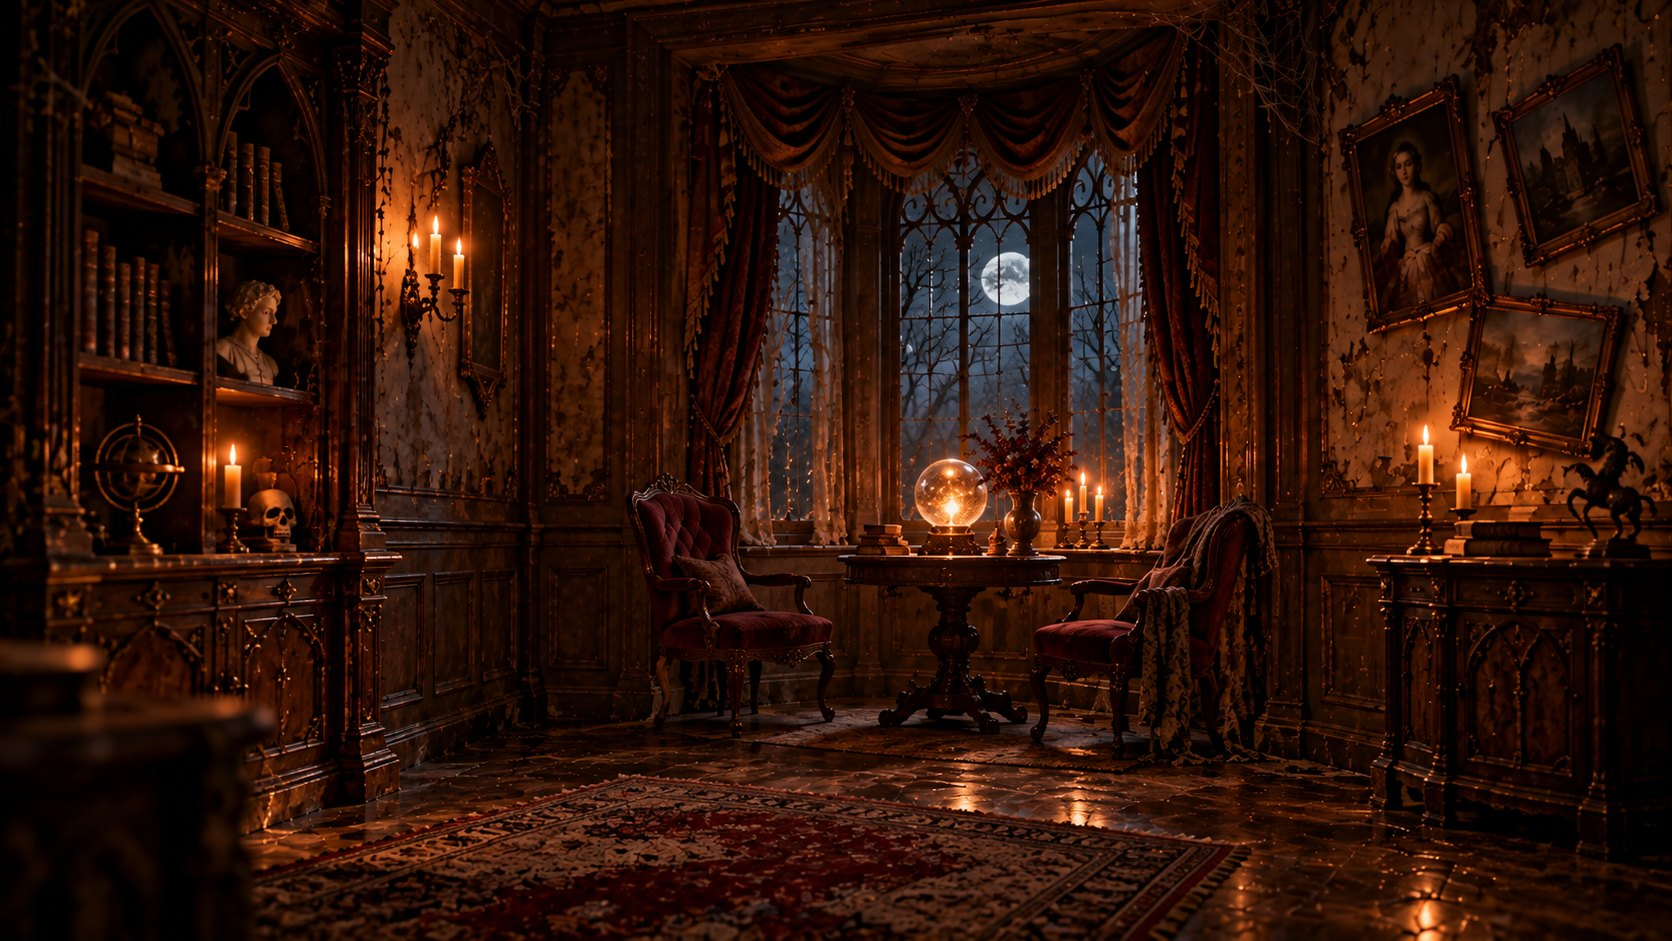
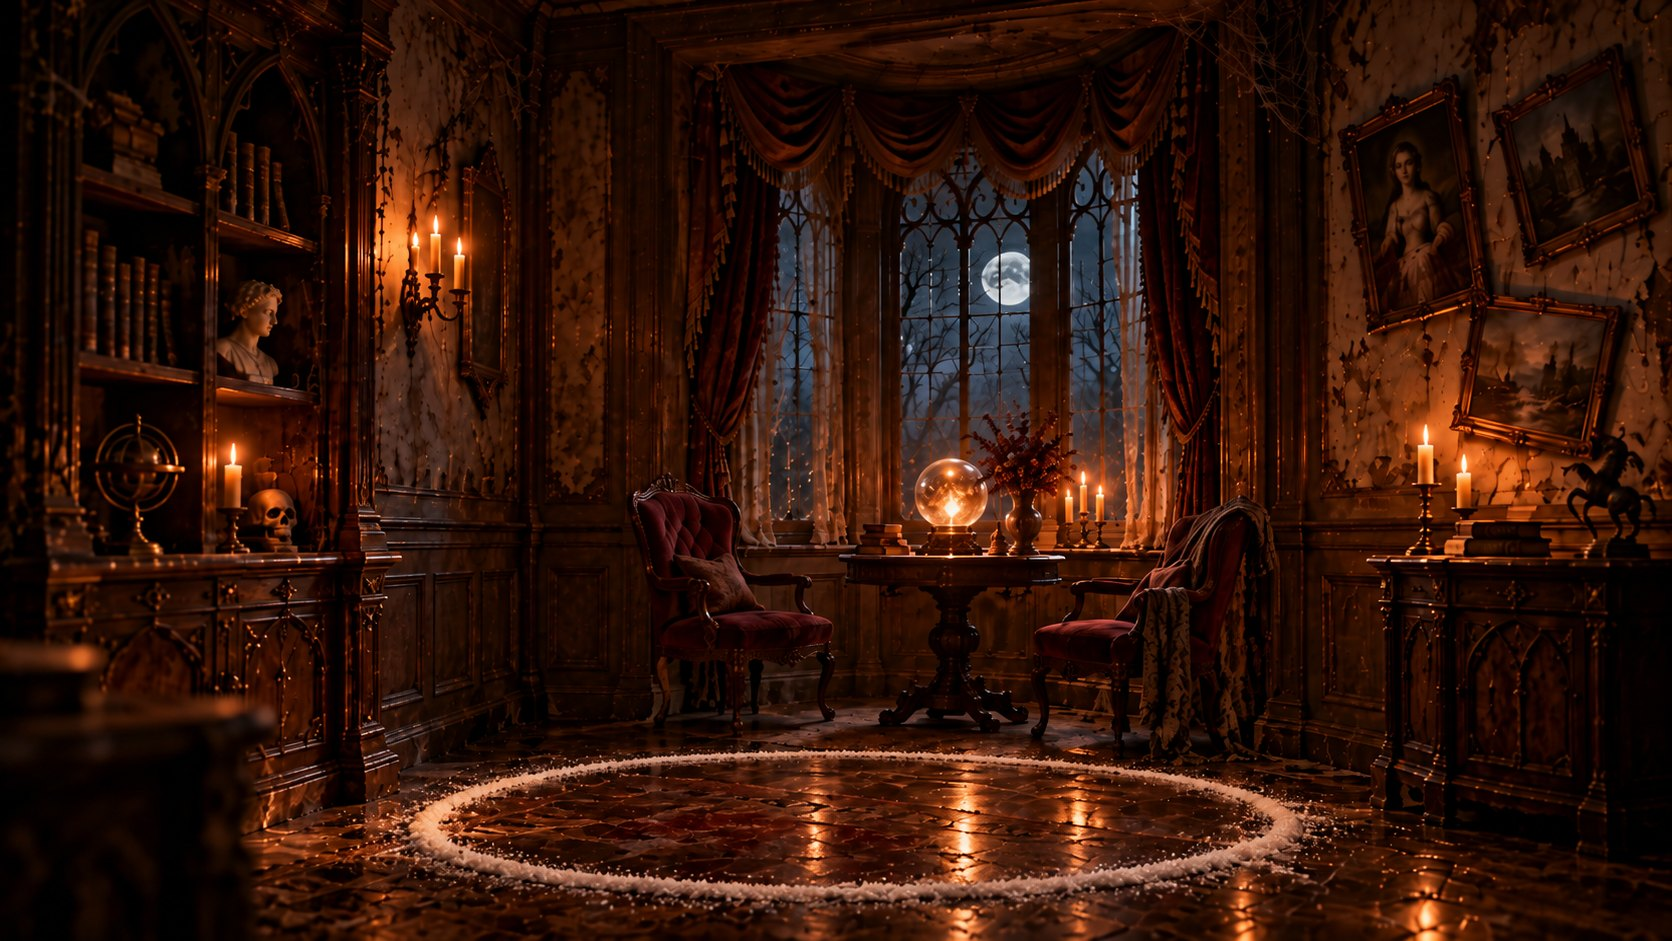
Spukhaus aktualisiert 14.10.2026 20:12

diff --git a/halloween/index.html b/halloween/index.html
@@ -60,6 +60,13 @@
     background: #17160f; color: #e8e4da; border: 1px solid #5a5238;
     border-radius: 6px; font-size: 14px; cursor: pointer; z-index: 3; }
 
+  #ritual { display: none; position: absolute; left: 14px; top: 14px; z-index: 3;
+    max-width: min(420px, 46%); padding: 12px 14px; background: rgba(14,13,10,0.9);
+    border: 1px solid #5a4a1c; border-radius: 8px; font-size: 13px; line-height: 1.5;
+    color: #b4ae9f; }
+  #ritual .hinweis { display: block; margin-top: 8px; font-size: 15px; color: #f0c173; }
+  #ritual .stand { display: block; margin-top: 8px; color: #8a857a; }
+
   .stelle.kreisfeld { border: 1px dashed rgba(240,193,115,0.45); border-radius: 50%;
     background: rgba(230,222,200,0.06); display: flex; flex-direction: column;
     align-items: center; justify-content: center; gap: 4px; cursor: pointer; }
@@ -68,7 +75,8 @@
   .stelle.kreisfeld.belegt { border-style: solid; border-color: #c88a2a;
     background: rgba(58,47,18,0.72); cursor: default; }
   .stelle.kreisfeld .kreisbild { width: 56%; max-height: 56%; object-fit: contain; }
-  .stelle.kreisfeld .kreisname { font-size: 12px; color: #f0c173; }
+  .stelle.kreisfeld .kreisname { font-size: 11px; color: #f0c173; text-align: center;
+    line-height: 1.1; }
 
   .stelle .pfeil { position: absolute; left: 50%; top: 50%;
     transform: translate(-50%, -50%); width: 46px; height: 46px; border-radius: 50%;
@@ -201,6 +209,7 @@
       <div id="ziehrahmen"></div>
       <div id="nah"><button id="nahzu">Zurück</button></div>
       <div id="tasche"></div>
+      <div id="ritual"></div>
       <div id="raetsel"></div>
       <div id="schloss"></div>
       <div id="fenster"></div>
@@ -456,18 +465,18 @@ const RAEUME = [
     naechster: "",
     tuertext: "",
     stellen: [
-      { id: "kreis1", x: 42.0, y: 62.8, w: 6, h: 10.5, kreisplatz: true },
-      { id: "kreis2", x: 59.3, y: 68.8, w: 6, h: 10.5, kreisplatz: true },
-      { id: "kreis3", x: 59.3, y: 80.8, w: 6, h: 10.5, kreisplatz: true },
-      { id: "kreis4", x: 42.0, y: 86.8, w: 6, h: 10.5, kreisplatz: true },
-      { id: "kreis5", x: 24.7, y: 80.8, w: 6, h: 10.5, kreisplatz: true },
-      { id: "kreis6", x: 24.7, y: 68.8, w: 6, h: 10.5, kreisplatz: true },
+      { id: "kreis1", x: 51.8, y: 76.0, w: 5.5, h: 8, kreisplatz: true },
+      { id: "kreis2", x: 77.7, y: 80.0, w: 5.5, h: 8, kreisplatz: true },
+      { id: "kreis3", x: 77.7, y: 88.0, w: 5.5, h: 8, kreisplatz: true },
+      { id: "kreis4", x: 51.8, y: 92.0, w: 5.5, h: 8, kreisplatz: true },
+      { id: "kreis5", x: 25.8, y: 88.0, w: 5.5, h: 8, kreisplatz: true },
+      { id: "kreis6", x: 25.8, y: 80.0, w: 5.5, h: 8, kreisplatz: true },
 
-      { id: "kugel",   x: 50, y: 44, w: 8,  h: 14, text: "Die Kugel auf dem Tisch ist trüb. Etwas bewegt sich darin, wenn man wegschaut." },
-      { id: "schaedel",x: 12, y: 46, w: 7,  h: 12, text: "Ein Schädel neben dem Globus. Jemand hat ihn poliert." },
+      { id: "kugel",   x: 48.5, y: 43, w: 7,  h: 12, text: "Die Kugel auf dem Tisch ist trüb. Etwas bewegt sich darin, wenn man wegschaut." },
+      { id: "schaedel",x: 12.5, y: 48, w: 6,  h: 10, text: "Ein Schädel neben dem Globus. Jemand hat ihn poliert." },
       { id: "regal",   x: 2,  y: 5,  w: 17, h: 40, text: "Die Bücher sind nach Jahren geordnet. Das letzte endet in dem Jahr, in dem die Villa leer wurde." },
       { id: "bilder_b",x: 84, y: 8,  w: 15, h: 35, text: "Landschaften, alle vom selben Haus aus gemalt, alle bei Nacht." },
-      { id: "mond_b",  x: 52, y: 20, w: 8,  h: 14, text: "Der Mond steht still im Fenster. Er ist seit Stunden nicht gewandert." }
+      { id: "mond_b",  x: 50.5, y: 23, w: 7,  h: 12, text: "Der Mond steht still im Fenster. Er ist seit Stunden nicht gewandert." }
     ]
   }
 ];
@@ -782,20 +791,22 @@ function zeichnen() {
     tasche.style.display = "none";
   }
 
+  const ritual = el("ritual");
   if (raumId === "buero") {
     const meins = meinStueck();
     const hinweis = meins ? GLOCKEN.hinweise[meins] : null;
-    const t = document.createElement("div");
-    t.id = "tuertext";
-    t.innerHTML = "Auf den Dielen liegt ein Kreis aus Salz, sechs Felder darin sind frei geblieben. " +
-      "Wer an der Reihe ist, legt sein Stück hinein.<br>" +
+    ritual.innerHTML =
+      "Auf den Dielen liegt ein Kreis aus Salz, sechs Felder darin sind frei geblieben. " +
+      "Wer an der Reihe ist, legt sein Stück hinein." +
       (hinweis
-      ? `Dein Hinweis, und nur deiner: <b style="color:#f0c173">${hinweis}</b>`
-      : "Du trägst kein Stück aus dem Vorzimmer. Du kannst nichts ablegen.") +
-      `<br>Im Kreis: ` + (gelaeutet.length
-        ? gelaeutet.map((g) => g.stueck).join(" — ")
-        : "noch nichts");
-    tuer.appendChild(t);
+        ? `<span class="hinweis">Dein Hinweis, und nur deiner: ${hinweis}</span>`
+        : `<span class="hinweis">Du trägst kein Stück aus dem Vorzimmer. Du kannst nichts ablegen.</span>`) +
+      `<span class="stand">Im Kreis: ` +
+        (gelaeutet.length ? gelaeutet.map((g) => g.stueck).join(" — ") : "noch nichts") +
+      `</span>`;
+    ritual.style.display = "block";
+  } else {
+    ritual.style.display = "none";
   }
 
   const liste = el("funde");
